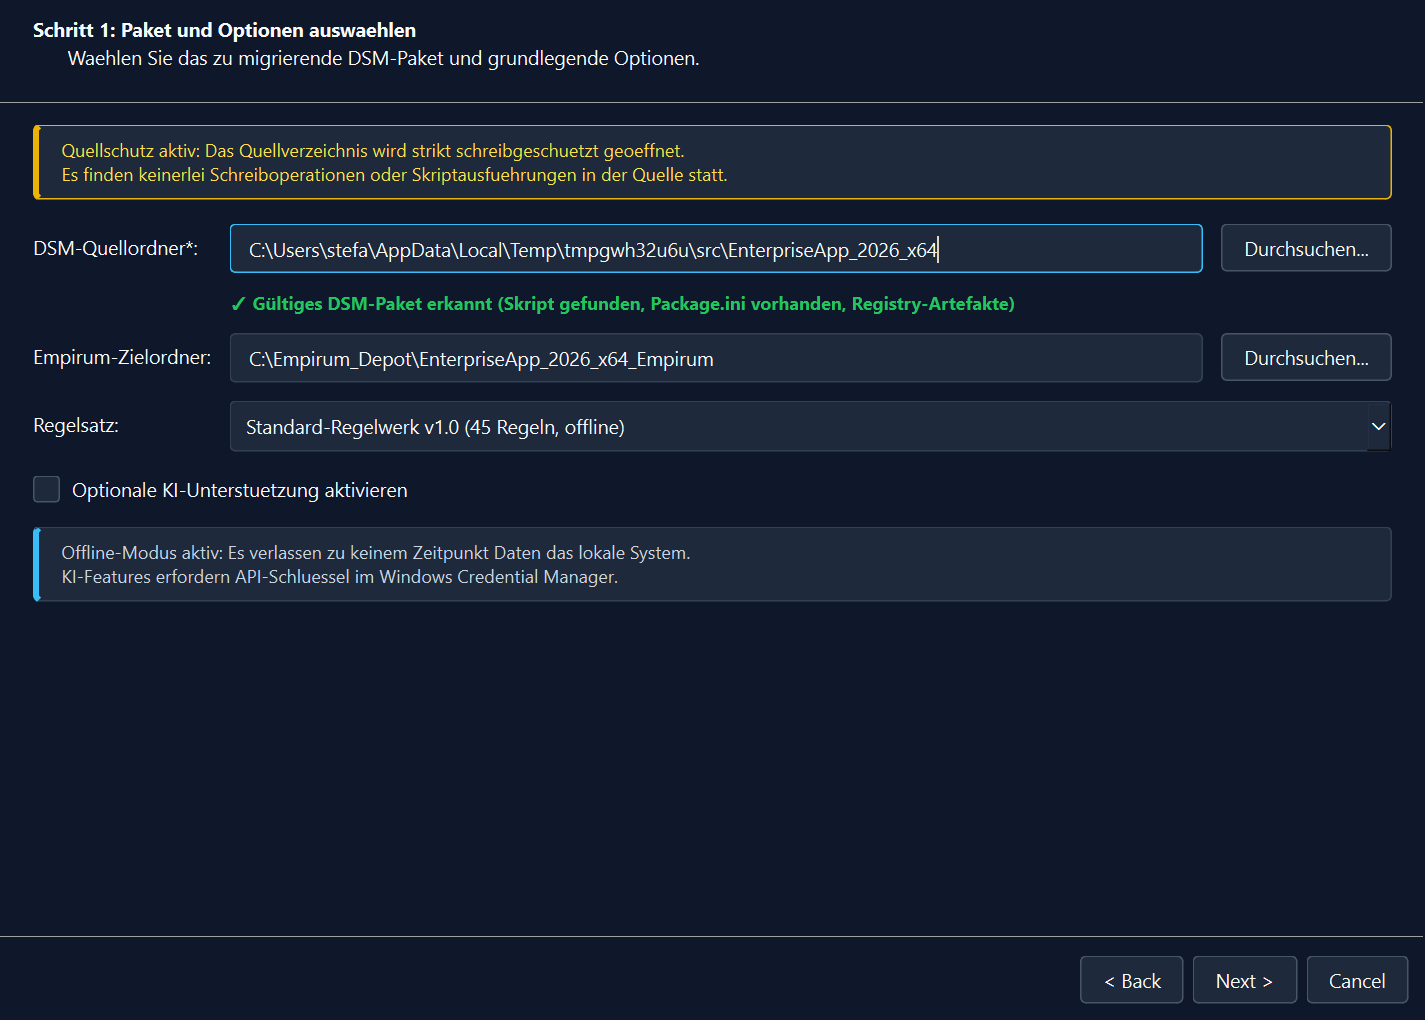
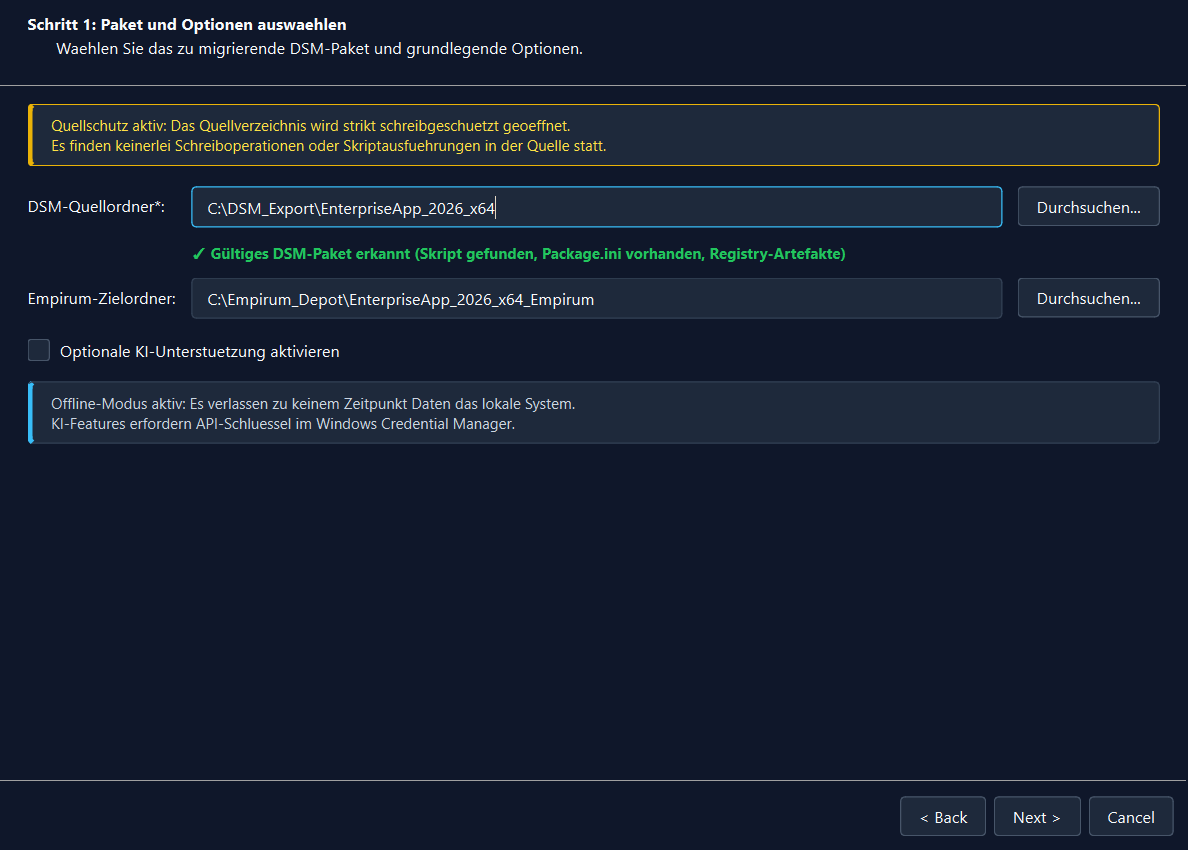
chore: sanitize screenshot tooling and confirm release build
- Screenshot tool writes relative to the repository and keeps a neutral example path
- Bundle reference YAMLs in the frozen build so selftest passes
- Rebuild and smoke test both executables

diff --git a/tools/capture_screenshots.py b/tools/capture_screenshots.py
@@ -2,7 +2,6 @@
 
 from __future__ import annotations
 
-import shutil
 import tempfile
 from pathlib import Path
 
@@ -16,6 +15,8 @@ from dsm2emp.gui.start_window import StartWindow
 from dsm2emp.gui.wizard.wizard import MigrationWizard
 from dsm2emp.orchestrator import MigrationOptions, migrate_single
 from dsm2emp.scanner.scanner import scan
+
+REPO_ROOT = Path(__file__).resolve().parents[1]
 
 
 def create_rich_enterprise_package(root: Path) -> Path:
@@ -62,12 +63,8 @@ def create_rich_enterprise_package(root: Path) -> Path:
 def main() -> None:
     app = create_app()
 
-    repo_out = Path(r"c:\AntiGravity\DSM2MatrixConverter\docs\screenshots")
-    brain_out = Path(
-        r"C:\Users\stefa\.gemini\antigravity-ide\brain\e8af5bbb-7fad-4947-ba5e-2f14772786ea\screenshots"
-    )
+    repo_out = REPO_ROOT / "docs" / "screenshots"
     repo_out.mkdir(parents=True, exist_ok=True)
-    brain_out.mkdir(parents=True, exist_ok=True)
 
     with tempfile.TemporaryDirectory() as tmp_dir:
         tmp_path = Path(tmp_dir)
@@ -103,6 +100,10 @@ def main() -> None:
         wizard.page_select.src_edit.setText(str(src_pkg))
         wizard.page_select.tgt_edit.setText(r"C:\Empirum_Depot\EnterpriseApp_2026_x64_Empirum")
         wizard.page_select._on_src_changed(str(src_pkg))
+        # Show a neutral path instead of the temporary build directory.
+        wizard.page_select.src_edit.blockSignals(True)
+        wizard.page_select.src_edit.setText(r"C:\DSM_Export\EnterpriseApp_2026_x64")
+        wizard.page_select.src_edit.blockSignals(False)
         app.processEvents()
         wizard.grab().save(str(repo_out / "02_wizard_step1_select.png"))
 
@@ -225,11 +226,7 @@ def main() -> None:
         batch_win.grab().save(str(repo_out / "08_batch_window_completed.png"))
         batch_win.close()
 
-    # Copy all generated screenshots to brain_out
-    for png in repo_out.glob("*.png"):
-        shutil.copy2(png, brain_out / png.name)
-
-    print(f"Successfully generated 8 screenshots in {repo_out} and {brain_out}!")
+    print(f"Successfully generated 8 screenshots in {repo_out}")
 
 
 if __name__ == "__main__":
